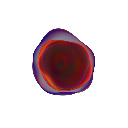
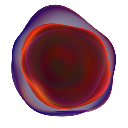
Enhance session list dialog and fix usage tracking
Session List Improvements:
- Add search functionality to filter sessions by title and preview text
- Add "Delete" dropdown menu to remove old sessions (7/30/90 days)
- Improve card design with better layout and color-coded costs
- Add overall statistics bar showing total sessions, messages, and cost
- Fix dropdown menu text color (text-foreground)

Usage Tracking Fixes:
- Fix session metadata to correctly track tokens and costs
- Calculate cumulative usage from all assistant messages
- Generate preview text for search functionality
- Preserve createdAt timestamp on session updates
- Add migrateSessionUsage() function to recalculate usage for existing sessions

UI Refinements:
- Fix user message alignment with ml-4 margin
- Update icon assets (icon-16, icon-48, icon-128)
- Simplify menu labels ("Delete" instead of "Delete Old", "Older than X days")

Changes:
- Enhanced src/dialogs/SessionListDialog.ts with search, delete, and improved cards
- Fixed src/sidepanel.ts saveSession() to properly calculate usage metadata
- Updated src/messages/UserMessageRenderer.ts for proper alignment
- Updated src/utils/i18n-extension.ts with new translations
- Updated static icons

diff --git a/browser/src/utils/i18n-extension.ts b/browser/src/utils/i18n-extension.ts
@@ -132,10 +132,10 @@ const sitegeistTranslations = {
 		"No sessions older than {days} days": "No sessions older than {days} days",
 		"Delete {count} sessions older than {days} days?": "Delete {count} sessions older than {days} days?",
 		"Failed to delete sessions. Check console for details.": "Failed to delete sessions. Check console for details.",
-		"Delete Old": "Delete Old",
-		"Delete older than 7 days": "Delete older than 7 days",
-		"Delete older than 30 days": "Delete older than 30 days",
-		"Delete older than 90 days": "Delete older than 90 days",
+		"Delete Old": "Delete",
+		"Older than 7 days": "Older than 7 days",
+		"Older than 30 days": "Older than 30 days",
+		"Older than 90 days": "Older than 90 days",
 		"Search sessions...": "Search sessions...",
 		"Total: {count} sessions · {messages} messages · ${cost}": "Total: {count} sessions · {messages} messages · ${cost}",
 	},
@@ -197,10 +197,10 @@ const sitegeistTranslations = {
 		"No sessions older than {days} days": "Keine Sitzungen älter als {days} Tage",
 		"Delete {count} sessions older than {days} days?": "{count} Sitzungen älter als {days} Tage löschen?",
 		"Failed to delete sessions. Check console for details.": "Löschen fehlgeschlagen. Prüfen Sie die Konsole für Details.",
-		"Delete Old": "Alte löschen",
-		"Delete older than 7 days": "Älter als 7 Tage löschen",
-		"Delete older than 30 days": "Älter als 30 Tage löschen",
-		"Delete older than 90 days": "Älter als 90 Tage löschen",
+		"Delete Old": "Löschen",
+		"Older than 7 days": "Älter als 7 Tage",
+		"Older than 30 days": "Älter als 30 Tage",
+		"Older than 90 days": "Älter als 90 Tage",
 		"Search sessions...": "Sitzungen durchsuchen...",
 		"Total: {count} sessions · {messages} messages · ${cost}": "Gesamt: {count} Sitzungen · {messages} Nachrichten · ${cost}",
 	},

diff --git a/browser/src/dialogs/SessionListDialog.ts b/browser/src/dialogs/SessionListDialog.ts
@@ -433,7 +433,7 @@ export class SitegeistSessionListDialog extends DialogBase {
 													this.handleDeleteOlderThan(7);
 												}}
 											>
-												${i18n("Delete older than 7 days")}
+												${i18n("Older than 7 days")}
 											</button>
 											<button
 												class="w-full px-3 py-2 text-left text-sm text-foreground hover:bg-secondary transition-colors"
@@ -442,7 +442,7 @@ export class SitegeistSessionListDialog extends DialogBase {
 													this.handleDeleteOlderThan(30);
 												}}
 											>
-												${i18n("Delete older than 30 days")}
+												${i18n("Older than 30 days")}
 											</button>
 											<button
 												class="w-full px-3 py-2 text-left text-sm text-foreground hover:bg-secondary transition-colors border-t border-border rounded-b-md"
@@ -451,7 +451,7 @@ export class SitegeistSessionListDialog extends DialogBase {
 													this.handleDeleteOlderThan(90);
 												}}
 											>
-												${i18n("Delete older than 90 days")}
+												${i18n("Older than 90 days")}
 											</button>
 										</div>
 									`
